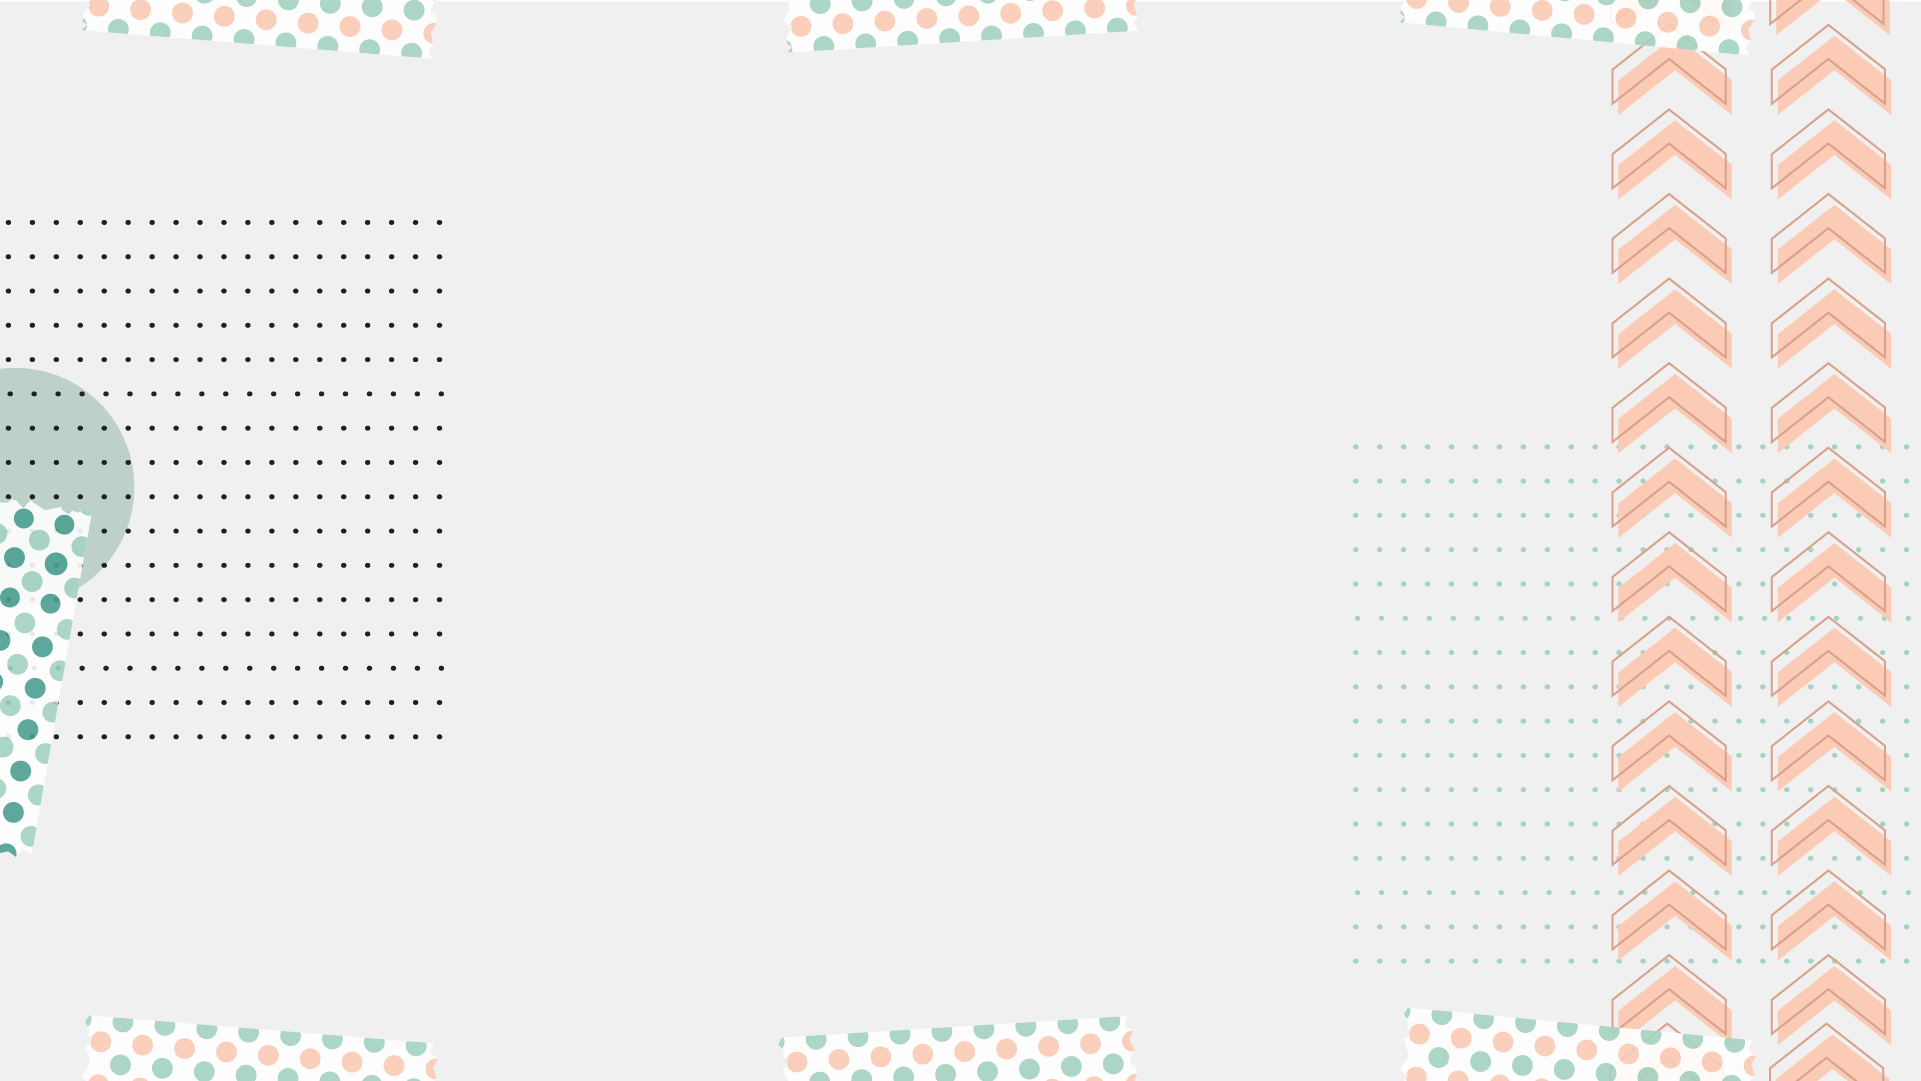
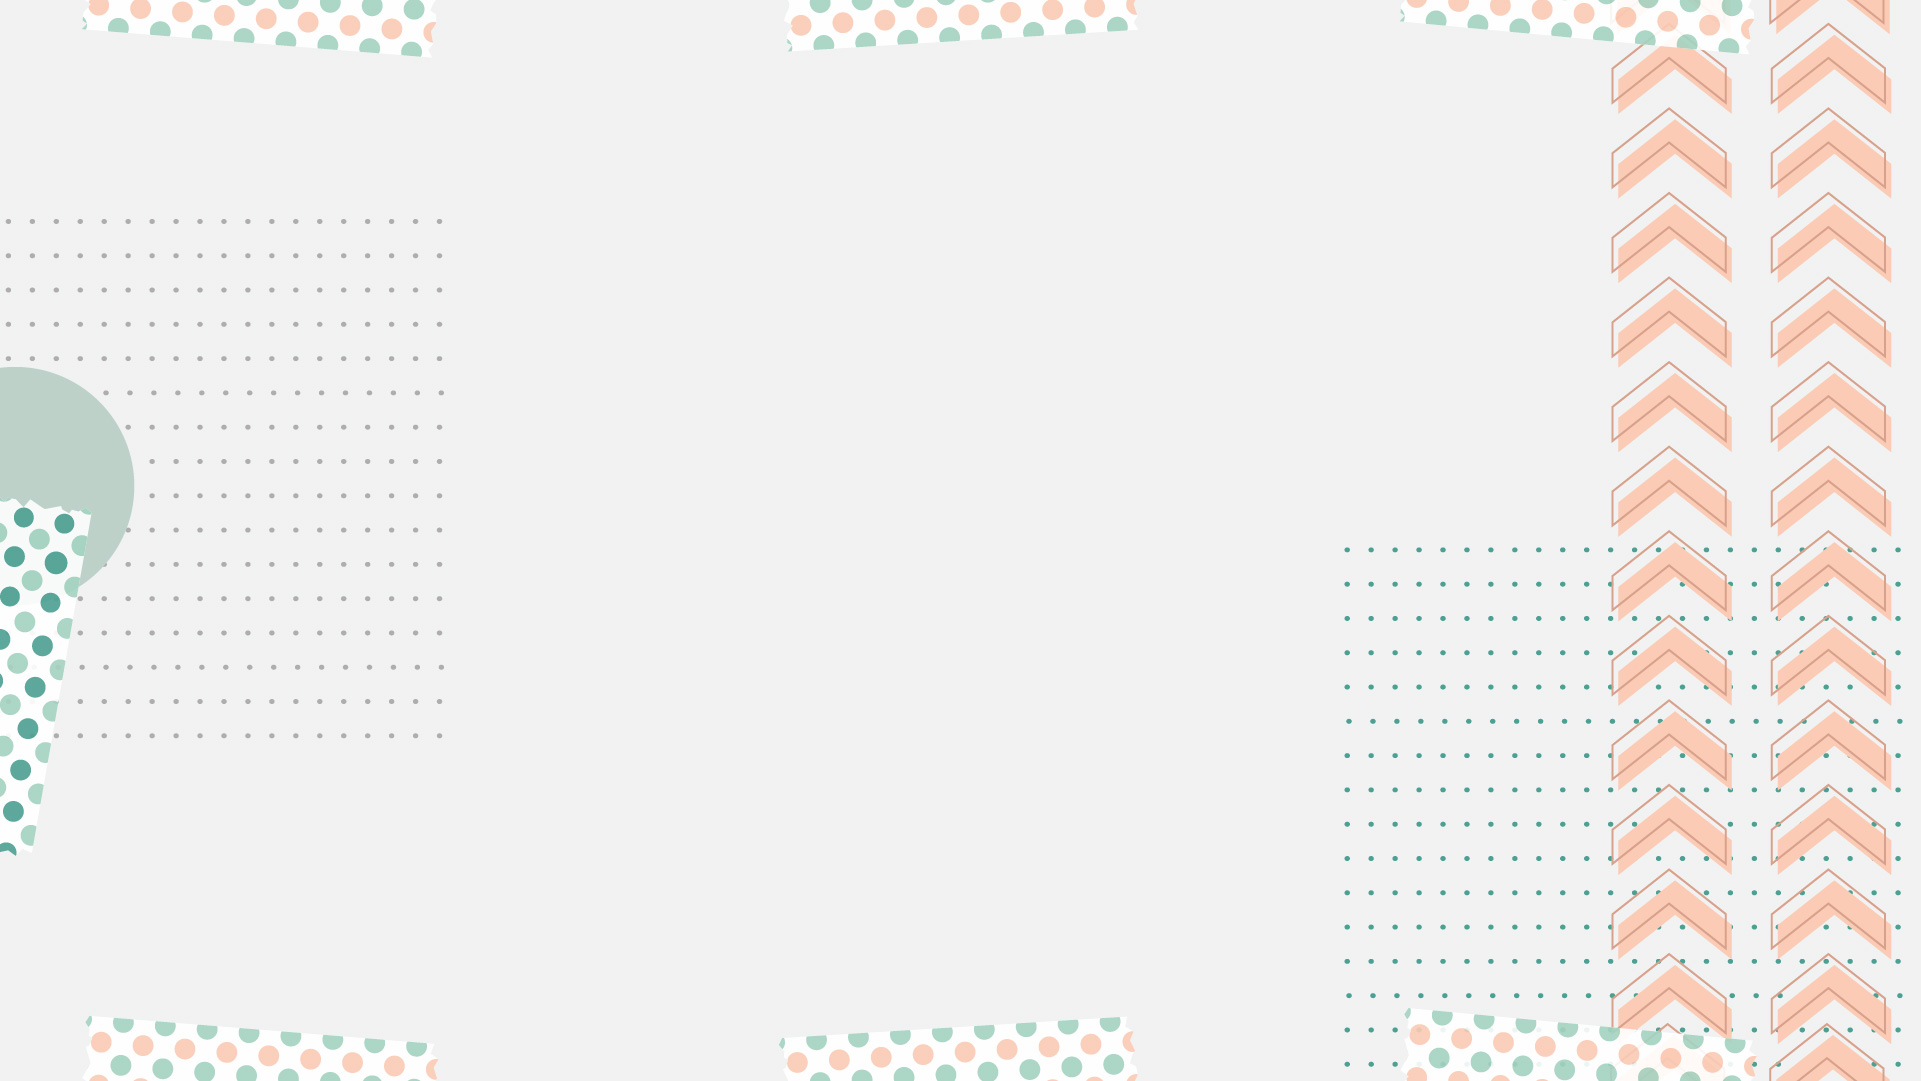
Updates bg image, adds js code to edit button, edit form and close form

diff --git a/script.js b/script.js
@@ -50,13 +50,18 @@ const data = {
 const $list = document.getElementById('list')
 const $form = document.getElementById('form')
 const $content = document.getElementById('content')
+const $modal = document.getElementById('modal')
+const $newContent = document.getElementById('newContent')
+const $saveButton = document.getElementById('saveButton')
+const $closeButton = document.getElementById('closeButton')
+const $editForm = document.getElementById('editForm')
 
 //add html dinamcally to the browser
 function listData(){
   const html = []
 
   for(let i = 0; i < data.ideas.length; i++ ){
-    if ("currentUser" == data.ideas[i].username) {
+    if ('currentUser' == data.ideas[i].username) {
       html.push(`<li class="ideasBox">
                   <div class="number" id="number">
                       <button id="increase" class="bi bi-chevron-up increase" data-index="${i}"></button>
@@ -67,10 +72,12 @@ function listData(){
                     <div class="current-user">
                       <h2>${data.ideas[i].username}</h2>
                       <p class="you"> You </p>
-                      <button id="delete" class="bi bi-trash-fill delete" data-index="${i}"> Delete </button>
-                      <button id="edit" class="bi bi-pen-fill edit"> Edit </button>
+                      <div class="float">
+                        <button id="delete" class="bi bi-trash2-fill delete" data-index="${i}"> Delete </button>
+                        <button id="edit" class="bi bi-pen-fill" data-editindex="${i}"> Edit </button>
+                      </div>
                     </div>
-                      <p> ${data.ideas[i].content} </p>
+                    <p class="contentDisplay"> ${data.ideas[i].content} </p>
                   </div>
               </li>  <hr>`)
     } else {
@@ -82,7 +89,7 @@ function listData(){
                     </div>
                     <div>
                         <h2>${data.ideas[i].username}</h2>
-                        <p> ${data.ideas[i].content} </p>
+                        <p class="contentDisplay"> ${data.ideas[i].content} </p>
                     </div>
                 </li>  <hr>`)
             }
@@ -119,8 +126,37 @@ $list.addEventListener('click', function (e) {
 
 //add eventListener to Edit button
 
+$list.addEventListener('click', function (e){
+  if (e.target.dataset.editindex !== undefined){
+    const editIdea = data.ideas[e.target.dataset.editindex]
+  
+    $newContent.value = editIdea.content
 
+    $saveButton.dataset.editindex = e.target.dataset.editindex
 
+    $modal.style.display = 'block'
+  }
+})
+
+$saveButton.addEventListener('click', function (){
+  const newContent = $newContent.value
+
+  const editIndex = $saveButton.dataset.editindex
+
+  data.ideas[editIndex].content = newContent
+
+  listData()
+
+  $editForm.reset()
+
+  $modal.style.display = 'none'
+})
+
+// add eventListener to close button of the Edit Form
+
+$closeButton.addEventListener('click', function(){
+  $modal.style.display = 'none'
+})
 
 
 //add eventListener to buttons - upvote and downvote

diff --git a/style.css b/style.css
@@ -33,7 +33,6 @@ h1{
 
 h2{
     font-family: var(--secondary-font);
-    /* margin-bottom: 12px; */
 }
 
 p{
@@ -96,41 +95,108 @@ hr{
 
 .you{
     color: var(--secondary-color);
-    margin: 5px 14px auto;
+    margin: auto 12px;;
     font-weight: bold;
     font-size: 20px;
 }
 
 .current-user{
-display: inline-flex;
-flex-wrap: wrap;
-max-width: 100%;
-align-items: center;
+    display: flex;
+    flex-wrap: wrap;
+    max-width: 100%;
+    align-items: center;
 }
 
-.addIdea{
+/* .float{
+    margin-left: auto;
+} */
+
+.addIdea, .saveButton{
     border: none;
     background-color: var(--secondary-color);
     padding: 12px;
-    margin-left: 14px;
+    position: relative;
+    float: right;
     border-radius: 10px;
     font-family: var(--secondary-font);
     font-size: 14px;
     font-weight: bold;
 }
 
+.test{
+    margin-top: 50px;
+}
 
-input{
+textarea{
     padding: 10px;
     border-radius: 8px;
     border: 2px dashed var(--primary-color);
-    /* width: 100%; */
-
+    width: 100%;
+    height: 80px;
+    margin: 12px auto;
 }
 
-/* .form{
-    display: flex;
+.contentDisplay{
+    margin: 14px auto 2px;
+}
+
+/* #delete{
+    margin-right: 14px;
+    margin-left: 6px;;
+    margin-top: 10px;
+    margin-bottom: 10px;
+    font-size: 16px;
+}
+
+#delete:hover{
+    background-color: var(--secondary-color);
+    color: white;
+    padding: 4px;
+    border-radius: 10px;
+}
+
+#edit:hover{
+    background-color: var(--primary-color);
+    color: white;
+    padding: 4px;
+    border-radius: 10px;
 } */
+
+/* Edit Modal */
+
+.modal {
+    display: none; 
+    position: fixed; 
+    z-index: 1;
+    left: 0;
+    top: 0;
+    width: 100%; 
+    height: 100%; 
+    overflow: auto; 
+    background-color: rgb(0,0,0); 
+    background-color: rgba(0,0,0,0.4); 
+  }
+
+.modal-content {
+    background-color: #fefefe;
+    border-radius: 10px;
+    margin: 15% auto; 
+    padding: 20px;
+    border: 1px solid #888;
+    width: 70%; 
+    height: 25%;
+}
+
+.closeButton{
+    position: relative;
+    float: right;
+    top: -22px;
+    right: 0;
+}
+
+.form{
+    margin-left: 10px ;
+}
 
 @media screen and (min-width:1200px){
 
@@ -145,6 +211,14 @@ input{
 
     .container{
         max-width: 70%;
+    }
+
+    .modal-content {
+        width: 50%; 
+      }
+
+    .form{
+        margin-left: 30px ;
     }
 
 }

diff --git a/index.html b/index.html
@@ -21,16 +21,33 @@
         <div class="IdeaContainer">
             <form class="form" id="form"> 
                 <h2 class="newIdea"> New Idea </h2>
-                <input type="text" id="content" name="task" class="form-control" placeholder="Create a new idea...">
+                <textarea type="text" id="content" name="task" class="form-control" placeholder="Create a new idea..."></textarea>
                 <button class="addIdea" id="addIdea" > Add Idea </button>
             </form>
+            <div class="test">
+                <ul id="list" class="list-group">
 
-            <ul id="list" class="list-group">
-
-            </ul>
+                </ul>
+            </div>
         </div>
     </div>
-    
+
+    <div class="modal" id="modal">
+            <div class="modal-content">
+                <div class="modal-header">
+                    <h2> Edit your idea </h2>
+                    <button id="closeButton" class="bi bi-x-lg closeButton"></button>
+                </div>
+                <div class="modal-body">
+                    <form id="editForm">
+                        <textarea type="text" id="newContent" name="task" class="form-control"></textarea>
+                    </form>
+                </div>
+                <div class="modal-footer">
+                    <button id="saveButton" class="saveButton"> Save </button>
+                </div>
+        </div>
+    </div>
     <script src="script.js"></script>
 </body>
 </html>
